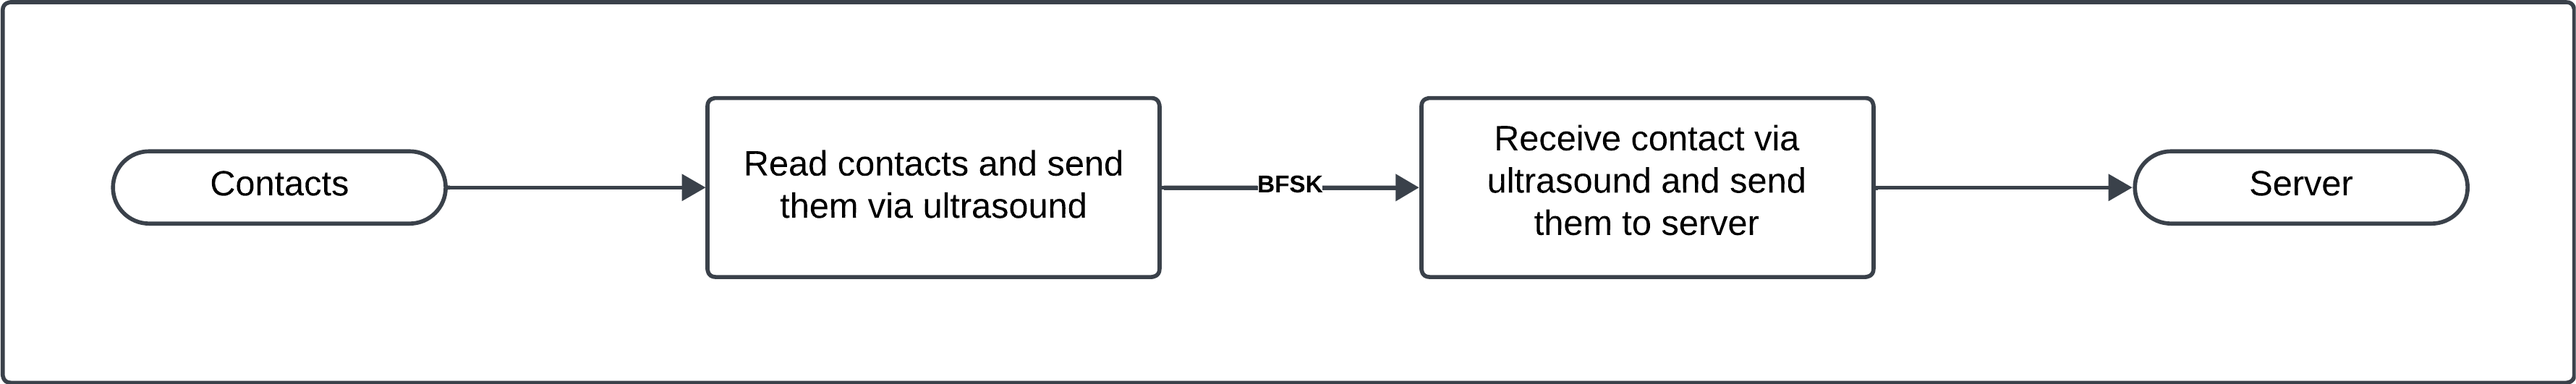
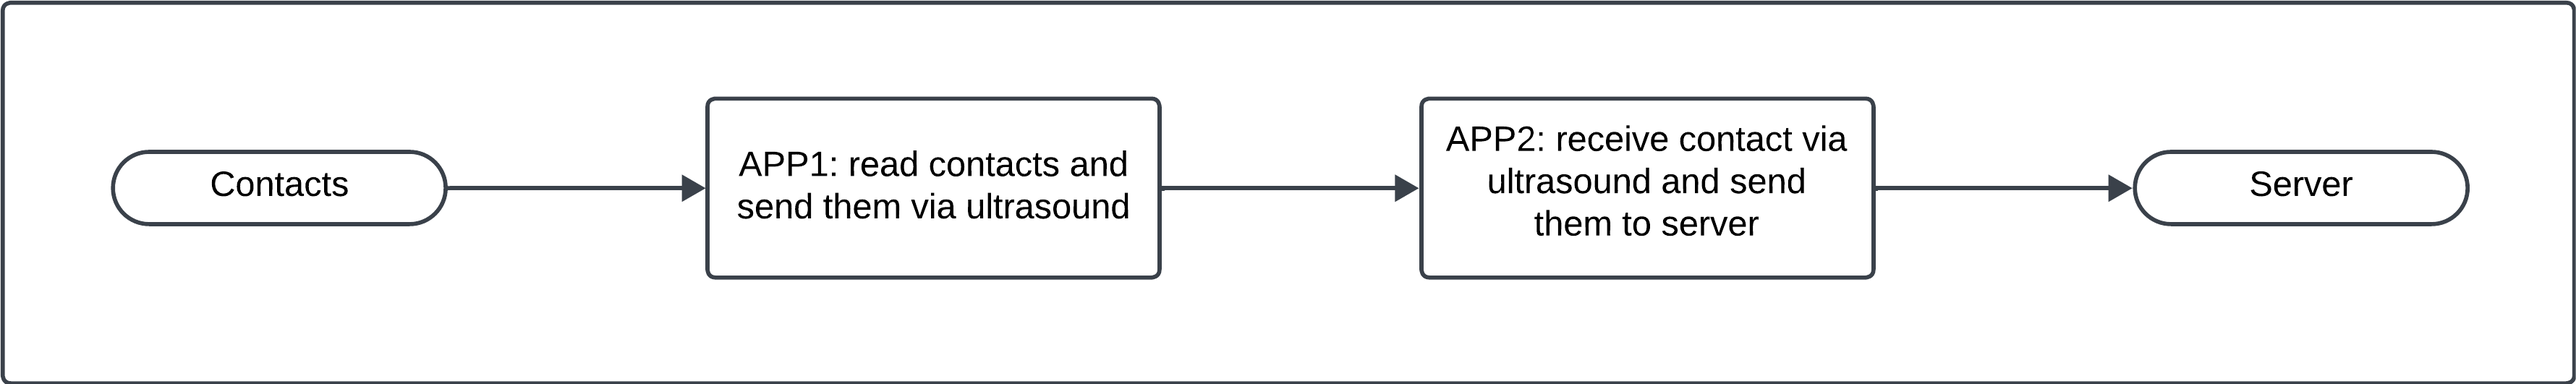
readme images update

diff --git a/README.md b/README.md
@@ -44,6 +44,8 @@ This ensures no single app has both access to the contact list and the ability t
 
 ## **3.2 Main Classes**
 
+![App1](ReadmeFiles/SchemaApp1.png)
+
 1. **MainActivity**
    - Manages the UI using Jetpack Compose:
      - A `Start Transmission` button (`onClickStart`) begins the contact transmission process.
@@ -84,6 +86,8 @@ This ensures no single app has both access to the contact list and the ability t
 - **Primary Functionality**: Receives BFSK signals, decodes the contacts, and sends them to Google Sheets using OAuth credentials (service account).
 
 ## **4.2 Main Classes**
+
+![App2](ReadmeFiles/SchemaApp2.png)
 
 1. **MainActivity**
    - UI built with Jetpack Compose:
